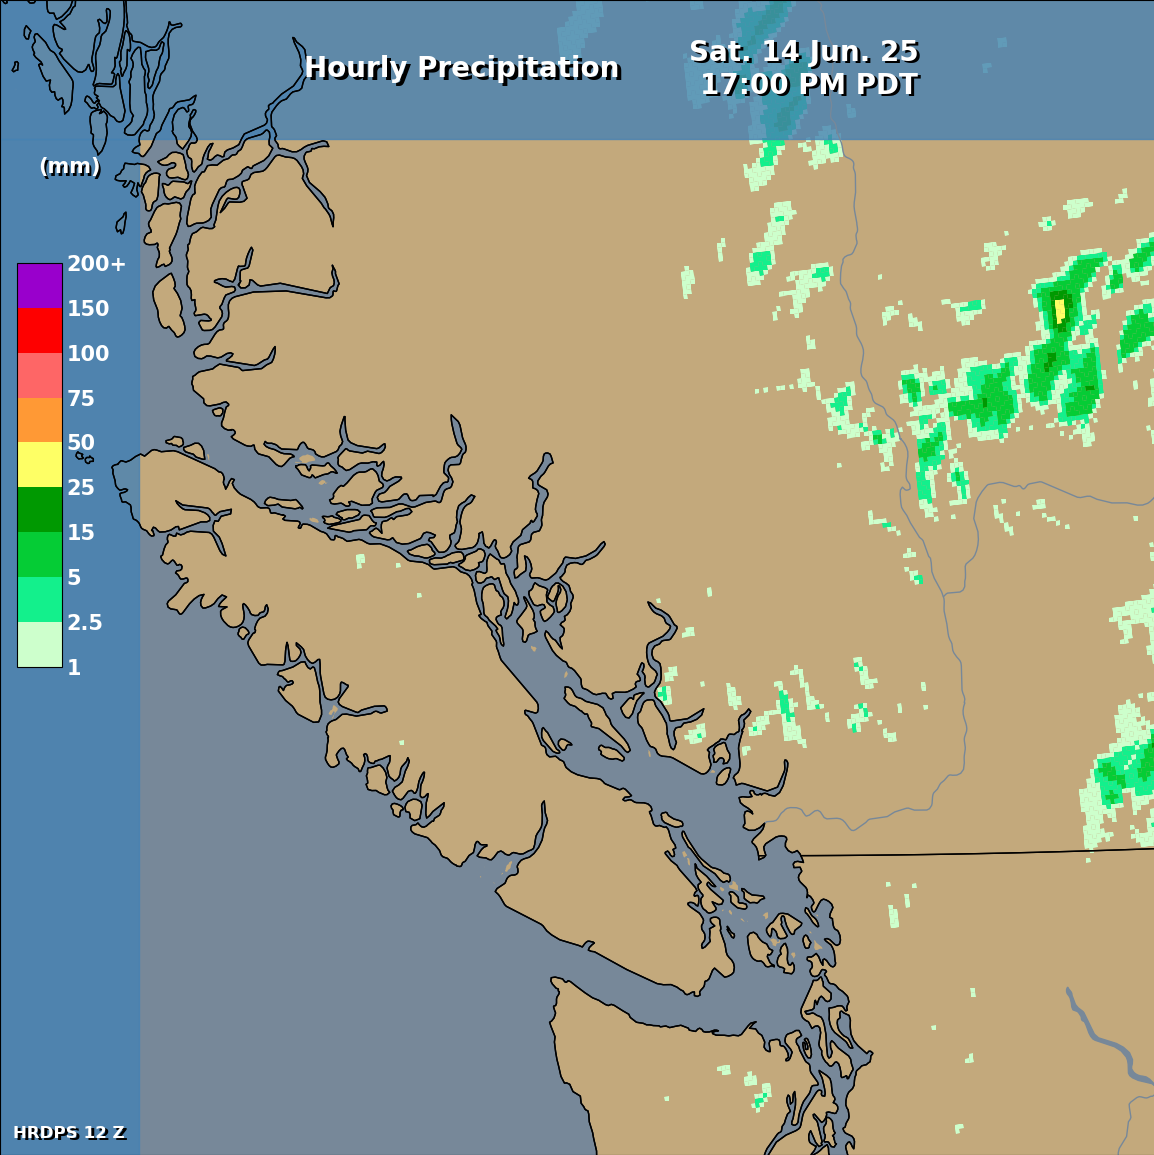
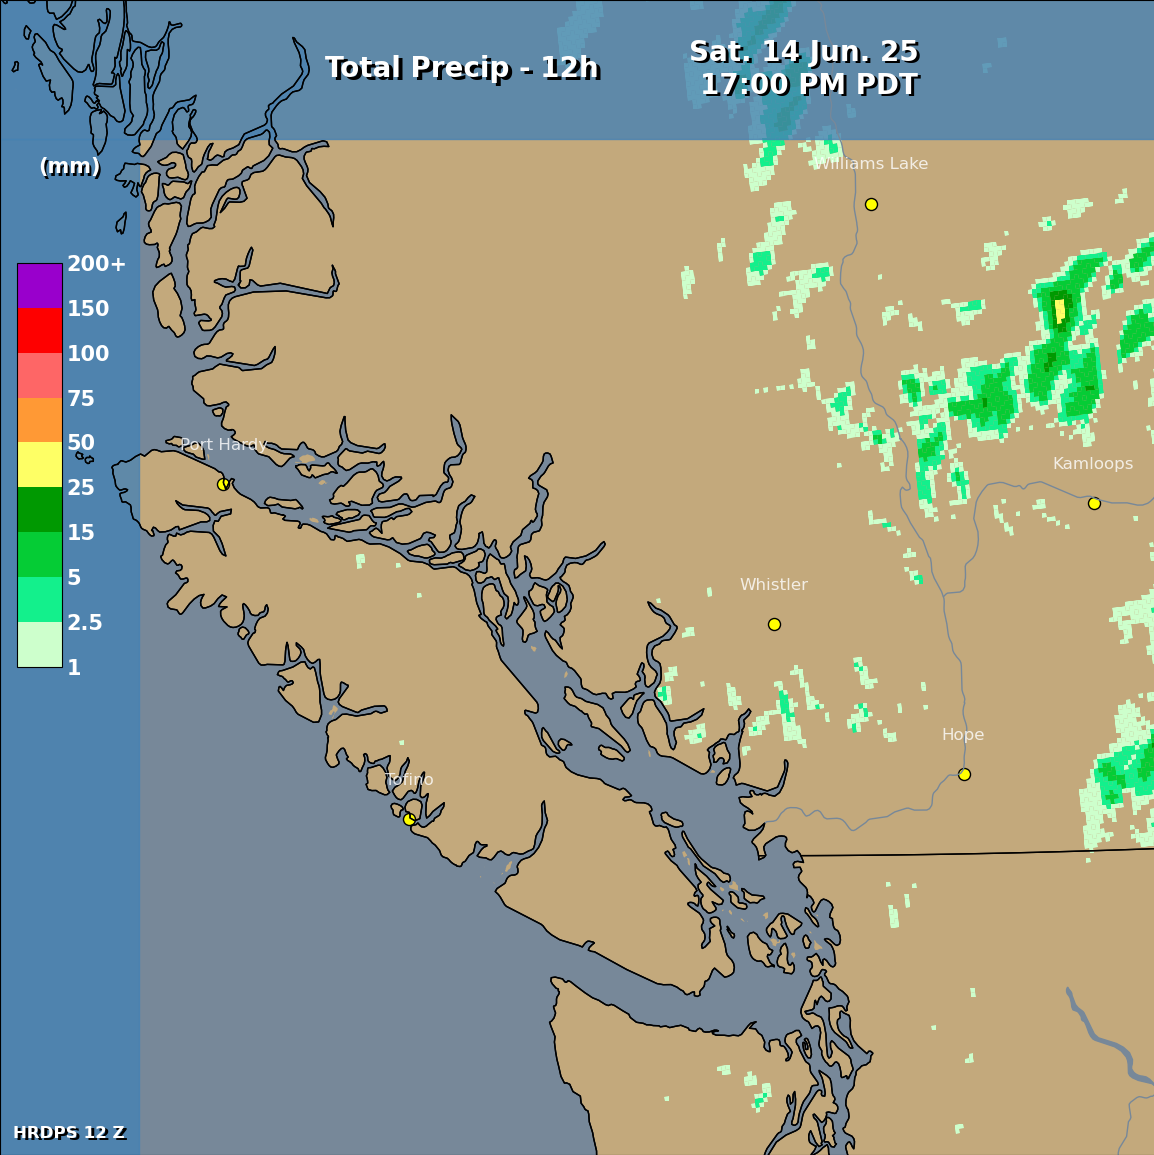
fix cities bug

diff --git a/code/bmwflib.py b/code/bmwflib.py
@@ -113,7 +113,7 @@ def make_figure(extent="MWF"):
     return fig, ax
 
 
-def plot_cities(ax):
+def plot_cities(ax, extent="MWF"):
     """
     plots and labels cities on map based on JSON file path input
     """
@@ -121,19 +121,31 @@ def plot_cities(ax):
         cities = pd.DataFrame.from_dict(
             json.load(f), orient="index", columns=["Latitude", "Longitude"]
         )
-        
+
+    # clip cities to map extent
+    with open("../config/map_extents.json", "r") as f:
+        map_extents = json.load(f)
+    ext = map_extents[extent]
+    cities = cities[
+        (ext[0] < cities.Longitude)
+        & (cities.Longitude < ext[1])
+        & (ext[2] < cities.Latitude)
+        & (cities.Latitude < ext[3])
+    ]
+
+    # do the plot
     ax.scatter(
         x=cities.Longitude,
         y=cities.Latitude,
         color="yellow",
         edgecolor="black",
-        s=45,
+        s=75,
         transform=ccrs.PlateCarree(),
     )
     for index, row in cities.iterrows():
         ax.text(
             row.Longitude,
-            row.Latitude + 0.1,
+            row.Latitude + 0.15,
             index,
             transform=ccrs.PlateCarree(),
             ha="center",
@@ -141,25 +153,10 @@ def plot_cities(ax):
             alpha=0.8,
             color="white",
             weight="light",
-            size=12
+            size=12,
         )
 
     return None
-
-
-def make_basemap(ax):
-    """
-    generates a basemap matching ACMWF style
-    """
-    ax.add_feature(feature.LAND, color="#C3A97C")
-    ax.add_feature(feature.STATES)
-    ax.add_feature(feature.OCEAN, color="lightslategrey")
-    ax.add_feature(feature.COASTLINE)
-    ax.add_feature(feature.LAKES, color="lightslategrey")
-    ax.add_feature(feature.RIVERS, color="lightslategrey")
-
-    return None
-
 
 def make_title(fig, ax, ds, title, offset=0):
     """
